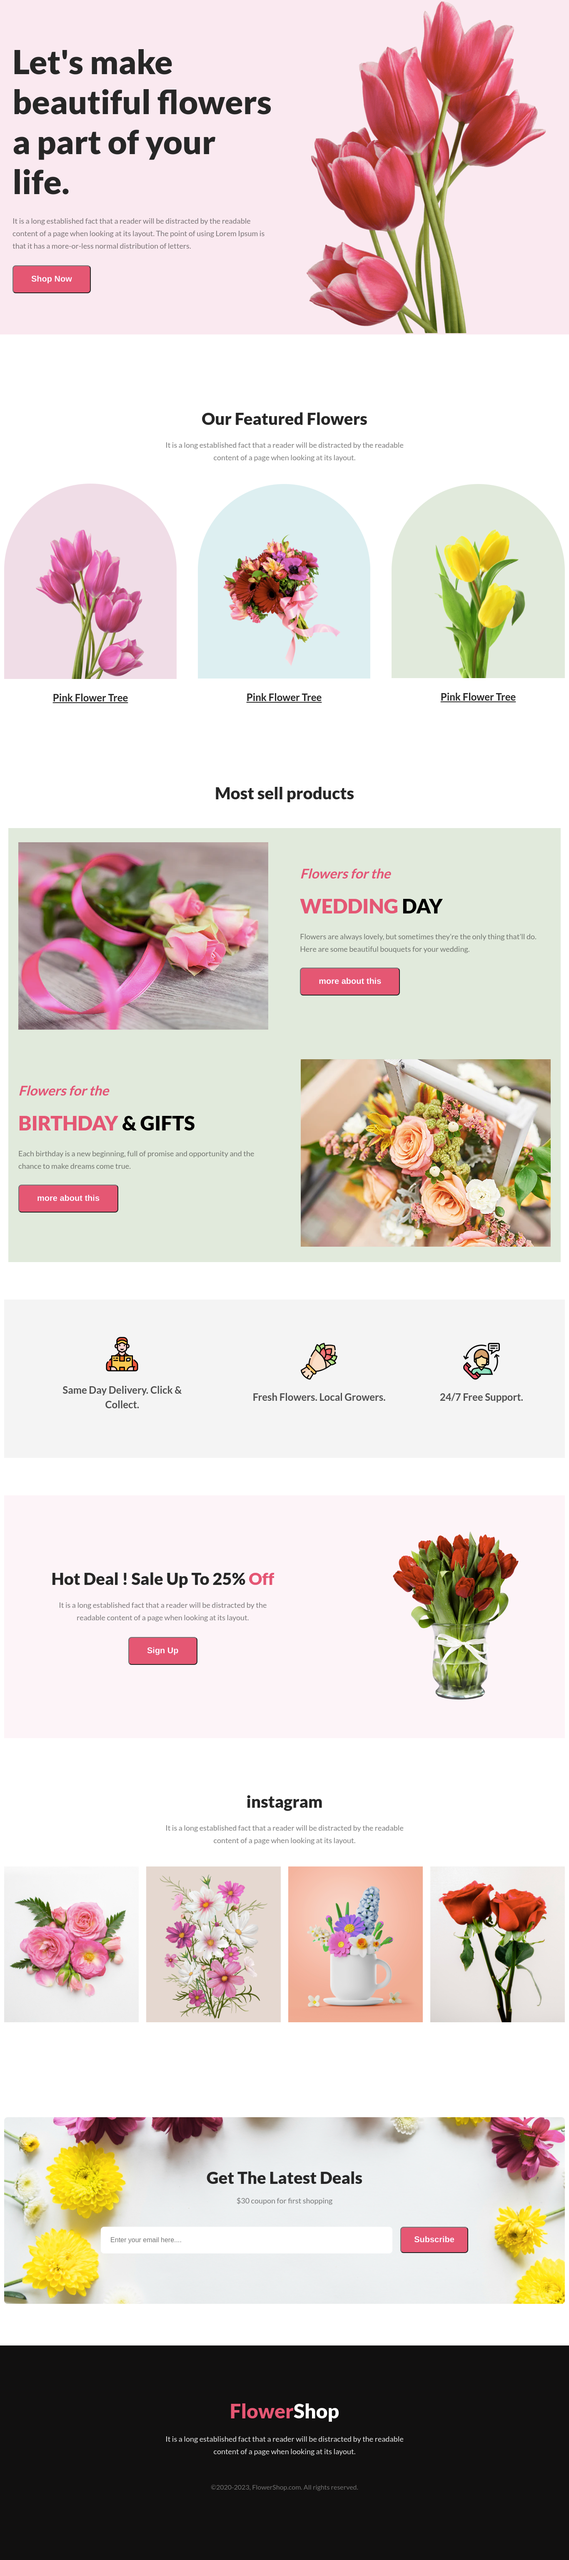
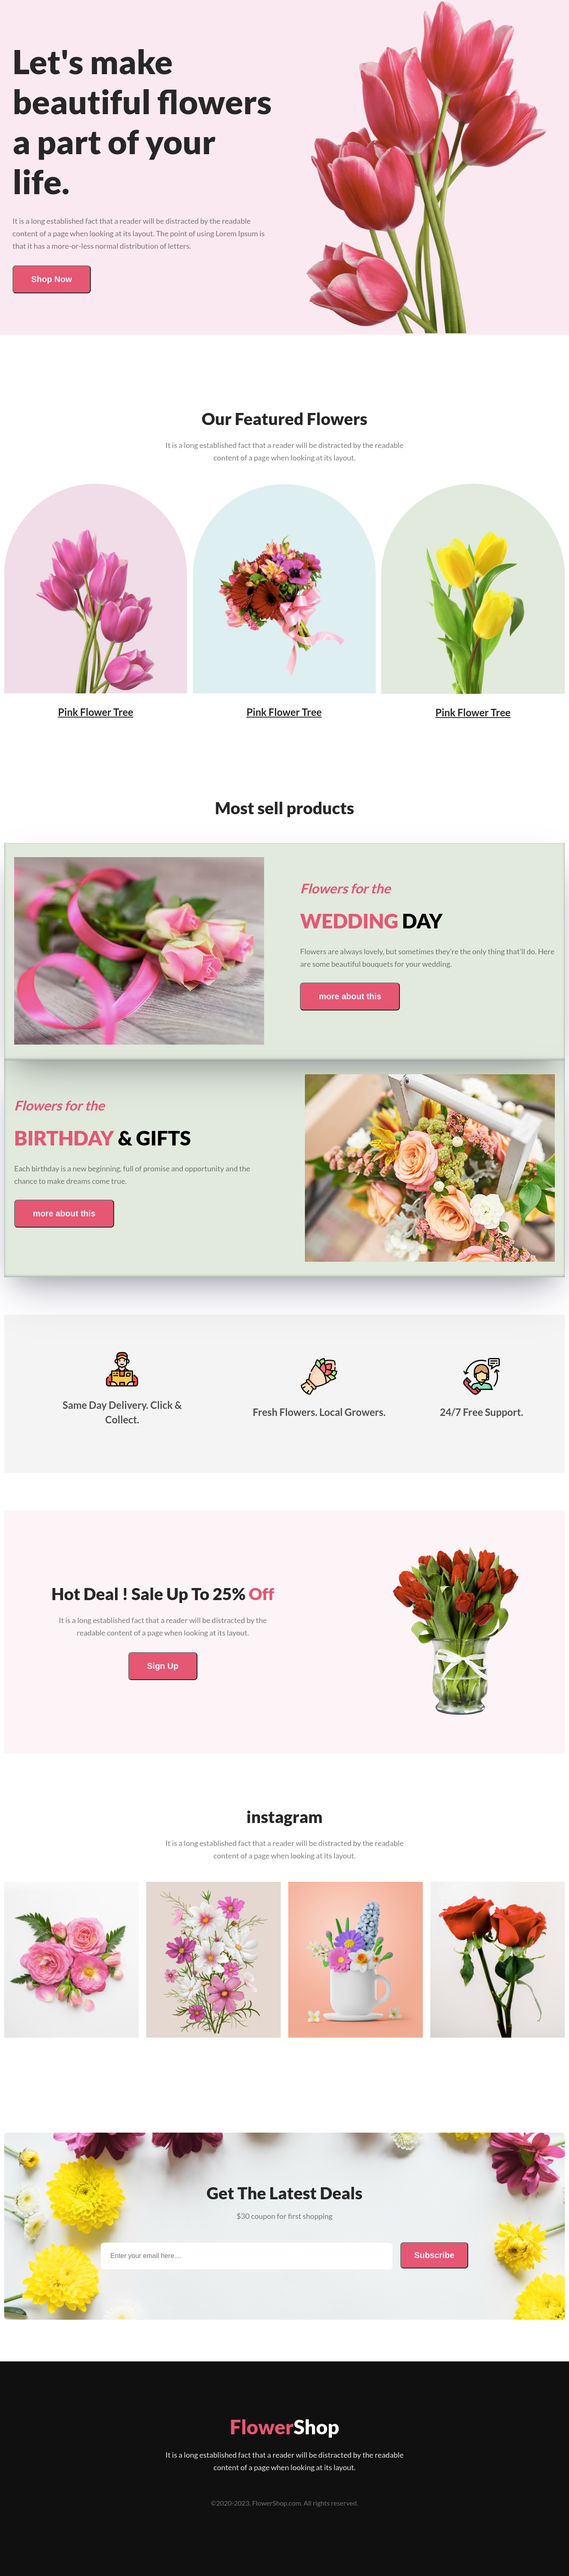
project done

diff --git a/style.css b/style.css
@@ -83,26 +83,22 @@ header p{
     max-width: 594px;
     margin: 0 auto;
 }
-
-.Featured_Flowers .flex_column{
-    max-width: 32%;
-}
 .Featured_Flowers .Featured_Flowers_1st{
     background: #A7216226;
-    max-width: 260px;
+    max-width: 285px;
     max-height: 420px;
     padding: 110px 78px 0px 76px;
     border-radius: 300px 300px 0px 0px;
 }
 .Featured_Flowers .Featured_Flowers_2nd{
-    max-width: 320px;
+    max-width: 345px;
     max-height: 360px;
-    padding: 117px 47px 30px;
+    padding: 117px 47px 40px;
     background: #0597A026 ;
     border-radius: 300px 300px 0px 0px;
 }
 .Featured_Flowers .Featured_Flowers_3rd{
-    max-width: 266px;
+    max-width: 291px;
     max-height: 463px;
     border-radius: 300px 300px 0px 0px;
     padding: 67px 75px 0px;
@@ -119,14 +115,15 @@ header p{
 /* Featured_Flowers section end here */
 /* extra section start here */
 .most_sell{
-    padding: 0px 20px;
+    padding: 0px 10px;
 }
 .most_sell h2{
     padding: 10px 0 60px;
 }
 .most_sell .main_column{
     padding: 10px 0;
-    background:  #477D1126;;
+    background:  #477D1126;
+    box-shadow: rgba(50, 50, 93, 0.25) 0px 50px 100px -20px, rgba(0, 0, 0, 0.3) 0px 30px 60px -30px, rgba(10, 37, 64, 0.35) 0px -2px 6px 0px inset;
 }
 .most_sell .flex_column {
     max-width: 49%;

diff --git a/index.html b/index.html
@@ -30,26 +30,18 @@
                 <h2>Our Featured Flowers</h2>
                 <p>It is a long established fact that a reader will be distracted by the readable content of a page when looking at its layout.</p>
                 <div class="main_column">
-                    <div class="flex_column">
                         <figure>
                             <img class="Featured_Flowers_1st" src="images/pngwing6.png" alt="">
                             <figcaption>Pink Flower Tree</figcaption>
                         </figure>
-                        
-                    </div>
-                    <div class="flex_column">
                         <figure>
                             <img class="Featured_Flowers_2nd" src="images/pngwing5.png" alt="">
                             <figcaption>Pink Flower Tree</figcaption>
                         </figure>
-                    </div>
-                    <div class="flex_column">
                         <figure>
                             <img class="Featured_Flowers_3rd" src="images/pngwing7.png" alt="">
                             <figcaption>Pink Flower Tree</figcaption>
                         </figure>
-                    </div>
-
                 </div>
             </div>
         </section>
